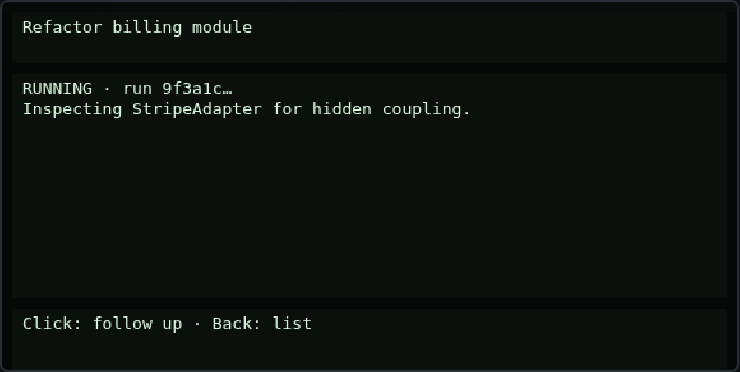
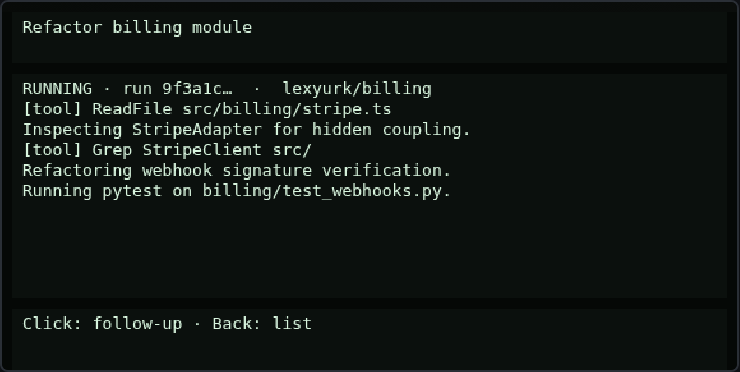
feat(glasses): richer detail HUD — repo label + 5-line activity tail
The detail page was a one-line ghost: status + last assistant delta and
nothing else. The wearer couldn't tell what file the agent was reading
or what repo it was in.

Now buildAgentDetailPage takes optional repoLabel and activity[]; the
status block becomes:

  RUNNING · run 9f3a1c…  ·  lexyurk/billing
  [tool] ReadFile src/billing/stripe.ts
  Inspecting StripeAdapter for hidden coupling.
  [tool] Grep StripeClient src/
  Refactoring webhook signature verification.
  Running pytest on billing/test_webhooks.py.

AgentDetail.ts keeps a rolling tail of up to 5 non-empty lines (assistant
deltas + tool calls + thinking + errors, already accumulated into
assistantLog) and re-publishes via the new updateDetailActivity(activity)
adapter method on every stream event. Repo URL is shortened to "owner/repo"
for the HUD.

Changed region(s): [[0.0311, 0.207, 0.6216, 0.5323]]

diff --git a/src/ui/AgentDetail.ts b/src/ui/AgentDetail.ts
@@ -86,22 +86,49 @@ export function mountAgentDetail(deps: AgentDetailDeps): AgentDetailHandle {
   let dictation: DictationSession | undefined;
   let destroyed = false;
 
+  const HUD_ACTIVITY_LINES = 5;
+  const HUD_ACTIVITY_LINE_WIDTH = 64;
+
+  const truncateLine = (line: string): string =>
+    line.length > HUD_ACTIVITY_LINE_WIDTH
+      ? `${line.slice(0, HUD_ACTIVITY_LINE_WIDTH - 1)}…`
+      : line;
+
+  const buildActivityTail = (): string[] => {
+    const lines = assistantLog
+      .split("\n")
+      .map((line) => line.trim())
+      .filter((line) => line.length > 0);
+    return lines.slice(-HUD_ACTIVITY_LINES).map(truncateLine);
+  };
+
+  const repoLabel = (): string | undefined => {
+    const url = agent.repositoryUrl;
+    if (!url) {
+      return undefined;
+    }
+    const stripped = url.replace(/^https?:\/\/[^/]+\//i, "").replace(/\.git$/, "");
+    return stripped || undefined;
+  };
+
   const renderHud = (): void => {
     const status = latestRun?.status ?? agent.status;
     const statusLine = latestRun
-      ? `Run ${latestRun.id.slice(0, 8)}… · ${status}`
+      ? `${status} · run ${latestRun.id.slice(0, 8)}…`
       : status;
+    const activity = buildActivityTail();
     void glasses.showAgentDetail({
       title: agent.name || "Agent",
       statusLine,
-      lastDelta: assistantLog.split("\n").pop() ?? "",
-      footer: "Click: follow-up · Back: list"
+      lastDelta: activity[activity.length - 1] ?? "",
+      footer: "Click: follow-up · Back: list",
+      repoLabel: repoLabel(),
+      activity
     });
   };
 
   const syncHudDelta = (): void => {
-    const lastLine = assistantLog.split("\n").filter(Boolean).pop() ?? "";
-    void glasses.updateDetailDelta(lastLine);
+    void glasses.updateDetailActivity(buildActivityTail());
   };
 
   const getFollowUpTextarea = (): HTMLTextAreaElement | null =>

diff --git a/src/glasses/pages.ts b/src/glasses/pages.ts
@@ -11,6 +11,8 @@ export type AgentDetailPageArgs = {
   statusLine: string;
   lastDelta: string;
   footer: string;
+  repoLabel?: string;
+  activity?: readonly string[];
 };
 
 export type VoicePageArgs = {
@@ -104,13 +106,29 @@ function buildFooterTextContainer(
 
 export function buildDetailStatusContent(
   statusLine: string,
-  lastDelta: string
+  lastDelta: string,
+  opts: { repoLabel?: string; activity?: readonly string[] } = {}
 ): string {
-  const delta = lastDelta.trim();
-  if (delta.length === 0) {
-    return clampTextContent(statusLine);
+  const lines: string[] = [];
+  if (opts.repoLabel && opts.repoLabel.trim().length > 0) {
+    lines.push(`${statusLine}  ·  ${opts.repoLabel.trim()}`);
+  } else {
+    lines.push(statusLine);
   }
-  return clampTextContent(`${statusLine}\n${delta}`);
+
+  const activity = opts.activity ?? [];
+  if (activity.length > 0) {
+    for (const line of activity) {
+      const trimmed = line.trim();
+      if (trimmed.length > 0) {
+        lines.push(trimmed);
+      }
+    }
+  } else if (lastDelta.trim().length > 0) {
+    lines.push(lastDelta.trim());
+  }
+
+  return clampTextContent(lines.join("\n"));
 }
 
 export function buildAgentListPage(
@@ -186,7 +204,10 @@ export function buildAgentDetailPage(
       buildFooterTextContainer(
         DETAIL_STATUS_CONTAINER_ID,
         DETAIL_STATUS_CONTAINER_NAME,
-        buildDetailStatusContent(args.statusLine, args.lastDelta),
+        buildDetailStatusContent(args.statusLine, args.lastDelta, {
+          repoLabel: args.repoLabel,
+          activity: args.activity
+        }),
         56,
         176
       ),
@@ -195,7 +216,8 @@ export function buildAgentDetailPage(
         DETAIL_FOOTER_CONTAINER_NAME,
         args.footer,
         240,
-        CANVAS_HEIGHT - 240
+        CANVAS_HEIGHT - 240,
+        { isEventCapture: 1 }
       )
     ]
   });

diff --git a/src/glasses/adapter.ts b/src/glasses/adapter.ts
@@ -24,6 +24,8 @@ export type AgentDetailHudArgs = {
   statusLine: string;
   lastDelta: string;
   footer: string;
+  repoLabel?: string;
+  activity?: readonly string[];
 };
 
 export type VoiceHudArgs = {
@@ -44,6 +46,7 @@ export class GlassesAdapter {
   private available = false;
   private startupInitialized = false;
   private detailStatusLine = "";
+  private detailRepoLabel: string | undefined = undefined;
 
   async init(): Promise<{ available: boolean }> {
     this.bridge = (await getBridgeIfAvailable()) ?? undefined;
@@ -76,8 +79,30 @@ export class GlassesAdapter {
     }
 
     this.detailStatusLine = args.statusLine;
+    this.detailRepoLabel = args.repoLabel;
     await this.bridge.rebuildPageContainer(
       new RebuildPageContainer(buildAgentDetailPage(args))
+    );
+  }
+
+  async updateDetailActivity(activity: readonly string[]): Promise<void> {
+    if (!this.available || !this.bridge) {
+      this.noOp("updateDetailActivity", activity);
+      return;
+    }
+
+    const content = buildDetailStatusContent(this.detailStatusLine, "", {
+      repoLabel: this.detailRepoLabel,
+      activity
+    });
+    await this.bridge.textContainerUpgrade(
+      new TextContainerUpgrade({
+        containerID: DETAIL_STATUS_CONTAINER_ID,
+        containerName: DETAIL_STATUS_CONTAINER_NAME,
+        contentOffset: 0,
+        contentLength: content.length,
+        content
+      })
     );
   }
 